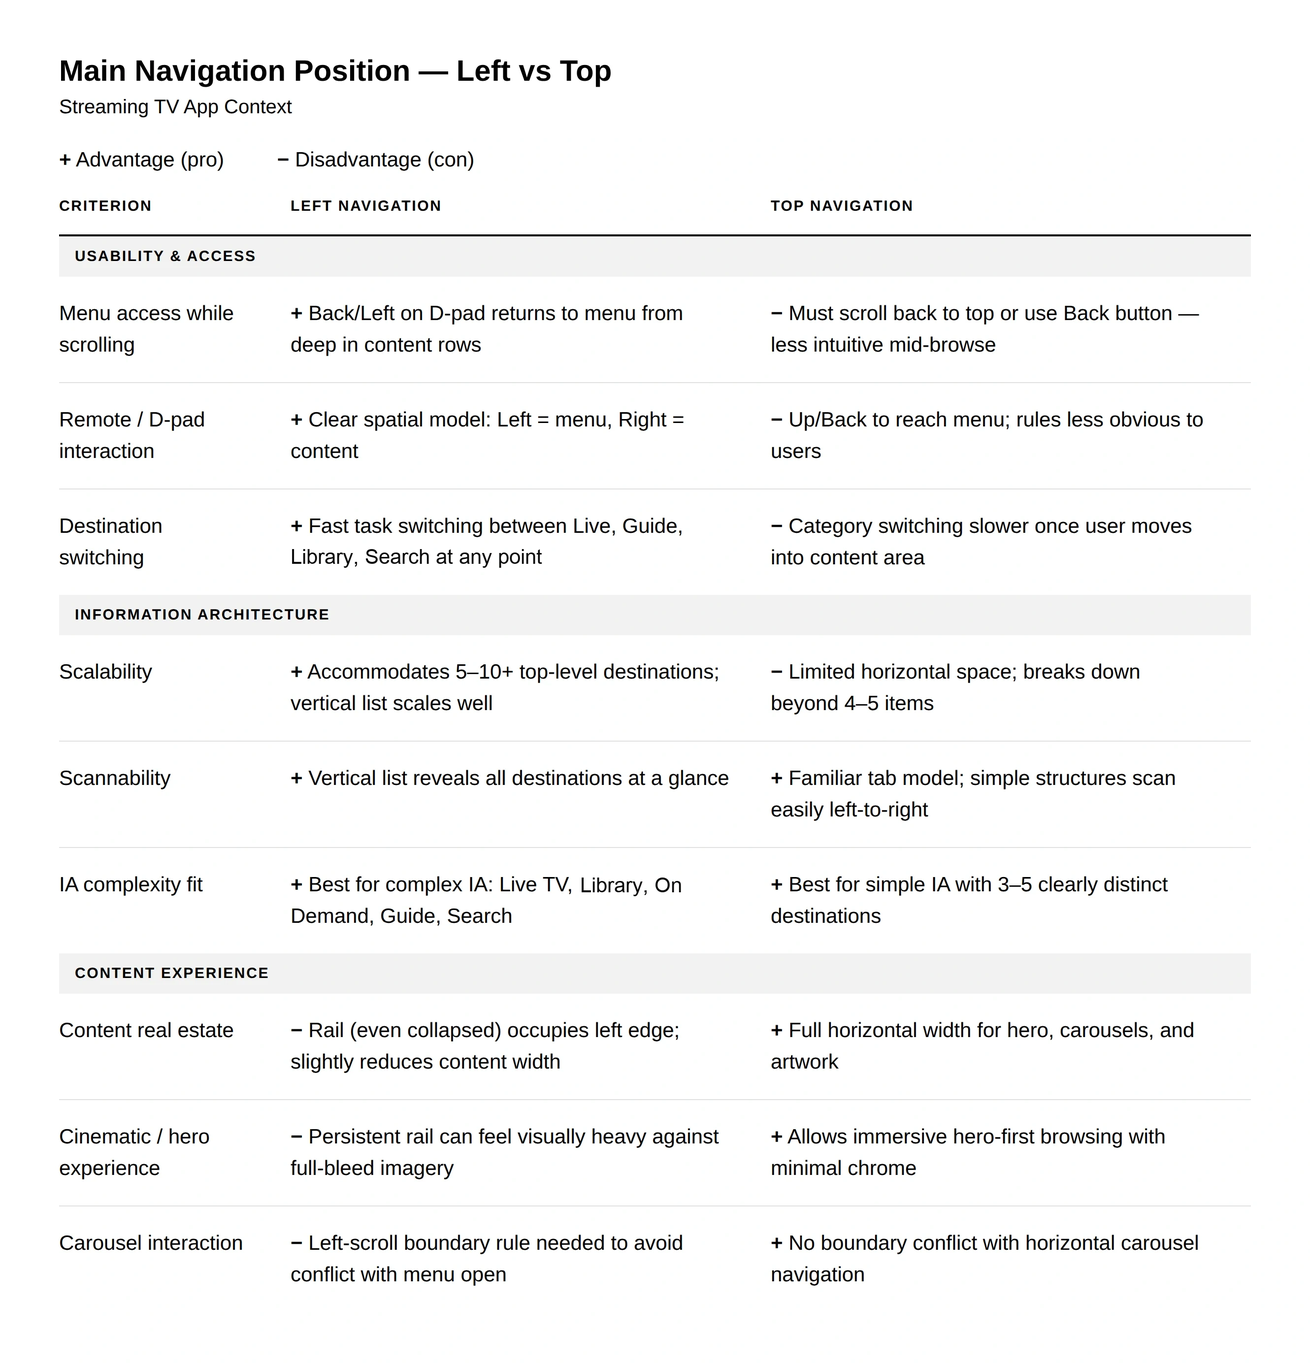
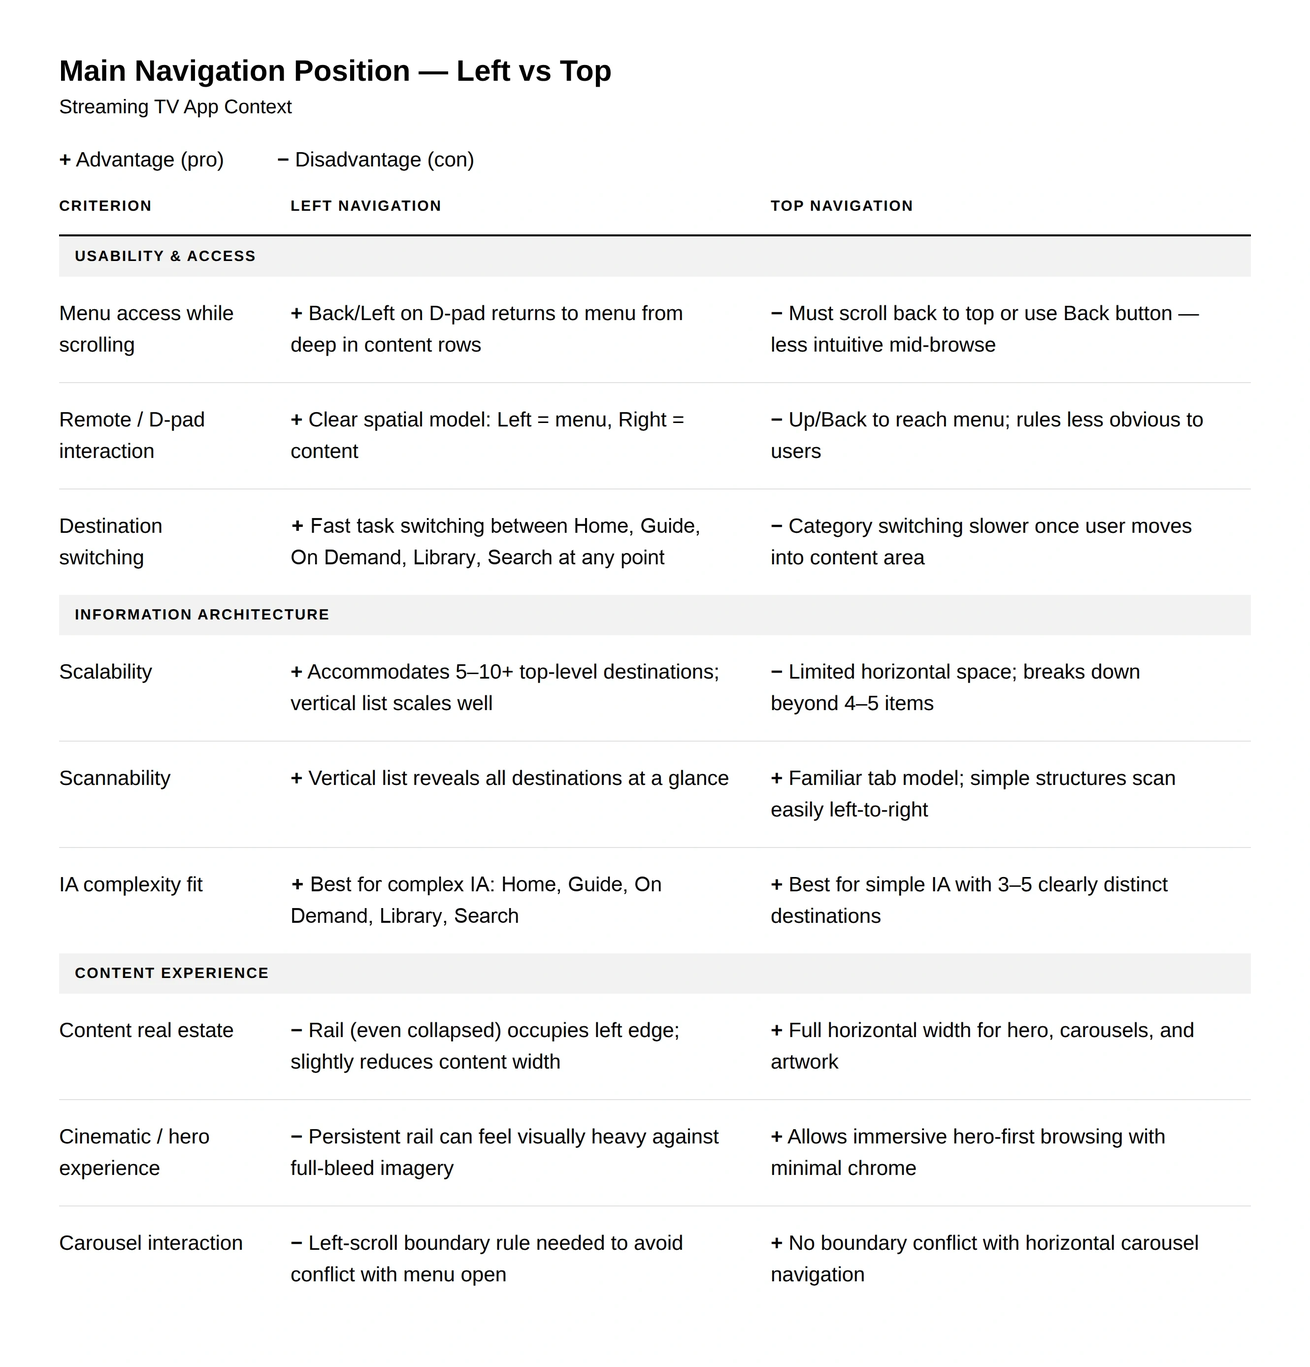
Project 1: 1-3 UI & Video Foundation and 1-4 Interaction Rules restructure, dark comparison tables

Changed region(s): [[0.2184, 0.3718, 0.5305, 0.4337], [0.2184, 0.6196, 0.4992, 0.6816]]

diff --git a/projects/overhaul/index.html b/projects/overhaul/index.html
@@ -270,24 +270,19 @@ Engagement</div><div class="a" data-id="0:142" style="left:865.00px;top:401.96px
 <h2 data-y="28423">Navigation and browsing became two distinct modes.</h2>
 <div class="bd" data-y="28527"><p>The collapsed rail kept browsing focused. When expanded, it created a clear mode for switching destinations without competing with horizontal content.</p></div>
 <div class="vis" data-w="1340" data-h="594" data-y="28707"><div class="vin" style="width:1340px;height:594px"><div class="a" data-id="0:296" style="left:0.00px;top:0.00px;width:1339px;height:594px;"><div class="a" data-id="0:297" style="left:0px;top:0px;width:1339px;height:594px;background:#e1e1e6;border-radius:10.8px;"></div><div class="a" data-id="0:298" style="left:143px;top:476px;width:427px;height:44px;opacity:0.7;white-space:pre;text-align:center;font:600 24px/40px 'Overused Grotesk';color:#000000;">Collapsed: Content-first browsing</div><div class="a" data-id="0:299" style="left:777px;top:476px;width:412px;height:44px;opacity:0.7;white-space:pre;text-align:center;font:600 24px/40px 'Overused Grotesk';color:#000000;">Expanded: Destination switching</div><div class="a" data-id="0:300" style="left:713px;top:122px;width:540px;height:307.8px;box-shadow:14px 14px 14px 0px rgba(0,0,0,0.3);"><div class="a" data-id="0:301" style="left:0px;top:0px;width:540px;height:307.8px;opacity:0.8;"><div class="a" data-id="0:302" style="left:0px;top:0px;width:540px;height:307.8px;background:#101411;box-shadow:inset 0 0 0 1.08px #31372e;border-radius:0px 10.8px 10.8px 0px;"></div><div class="a" data-id="0:303" style="left:66.96px;top:34.56px;width:442.8px;height:179.28px;background:#1f211d;box-shadow:inset 0 0 0 2.16px #85897d;border-radius:10.8px;"></div><div class="a" data-id="0:304" style="left:66.96px;top:258.12px;width:105.84px;height:49.68px;background:#1f211d;border-radius:10.8px 10.8px 0px 0px;"></div><div class="a" data-id="0:305" style="left:179.28px;top:258.12px;width:105.84px;height:49.68px;background:#1f211d;border-radius:10.8px 10.8px 0px 0px;"></div><div class="a" data-id="0:306" style="left:291.6px;top:258.12px;width:105.84px;height:49.68px;background:#1f211d;border-radius:10.8px 10.8px 0px 0px;"></div><div class="a" data-id="0:307" style="left:402.84px;top:258.12px;width:105.84px;height:49.68px;background:#1f211d;border-radius:10.8px 10.8px 0px 0px;"></div><div class="a" data-id="0:308" style="left:515.16px;top:258.12px;width:24.84px;height:49.68px;background:#1f211d;border-radius:10.8px 0px 10.8px 0px;"></div><div class="a" data-id="0:309" style="left:86.4px;top:102.6px;width:64.8px;height:6.48px;background:#30342c;border-radius:10.8px;"></div><div class="a" data-id="0:310" style="left:66.96px;top:231.12px;width:64.8px;height:10.8px;background:#30342c;border-radius:10.8px;"></div><div class="a" data-id="0:311" style="left:86.4px;top:146.88px;width:171.72px;height:6.48px;background:#30342c;border-radius:10.8px;"></div><div class="a" data-id="0:312" style="left:86.4px;top:157.68px;width:142.56px;height:6.48px;background:#30342c;border-radius:10.8px;"></div><div class="a" data-id="0:313" style="left:86.4px;top:118.8px;width:120.96px;height:15.12px;background:#43493e;border-radius:6.48px;"></div><div class="a" data-id="0:314" style="left:86.4px;top:177.12px;width:86.4px;height:21.6px;background:#7d7d7d;border-radius:10.8px;"></div></div><div class="a" data-id="0:315" style="left:0px;top:0px;width:85.5px;height:307.8px;overflow:hidden;box-shadow:4px 4px 9px 0px rgba(0,0,0,0.25);"><img src="a/0_315.webp" alt="" style="width:100%;height:100%;object-fit:fill"></div></div><div class="a" data-id="0:316" style="left:86px;top:125px;width:540px;height:307.8px;box-shadow:8px 14px 14px 0px rgba(0,0,0,0.3);"><div class="a" data-id="0:317" style="left:0px;top:0px;width:540px;height:307.8px;opacity:0.8;"><div class="a" data-id="0:318" style="left:0px;top:0px;width:540px;height:307.8px;background:#101411;box-shadow:inset 0 0 0 1.08px #31372e;border-radius:10.8px;"></div><div class="a" data-id="0:319" style="left:66.96px;top:34.56px;width:442.8px;height:179.28px;background:#1f211d;box-shadow:inset 0 0 0 2.16px #85897d;border-radius:10.8px;"></div><div class="a" data-id="0:320" style="left:66.96px;top:258.12px;width:105.84px;height:49.68px;background:#1f211d;border-radius:10.8px 10.8px 0px 0px;"></div><div class="a" data-id="0:321" style="left:179.28px;top:258.12px;width:105.84px;height:49.68px;background:#1f211d;border-radius:10.8px 10.8px 0px 0px;"></div><div class="a" data-id="0:322" style="left:291.6px;top:258.12px;width:105.84px;height:49.68px;background:#1f211d;border-radius:10.8px 10.8px 0px 0px;"></div><div class="a" data-id="0:323" style="left:402.84px;top:258.12px;width:105.84px;height:49.68px;background:#1f211d;border-radius:10.8px 10.8px 0px 0px;"></div><div class="a" data-id="0:324" style="left:515.16px;top:258.12px;width:24.84px;height:49.68px;background:#1f211d;border-radius:10.8px 0px 10.8px 0px;"></div><div class="a" data-id="0:325" style="left:86.4px;top:102.6px;width:64.8px;height:6.48px;background:#30342c;border-radius:10.8px;"></div><div class="a" data-id="0:326" style="left:66.96px;top:231.12px;width:64.8px;height:10.8px;background:#30342c;border-radius:10.8px;"></div><div class="a" data-id="0:327" style="left:86.4px;top:146.88px;width:171.72px;height:6.48px;background:#30342c;border-radius:10.8px;"></div><div class="a" data-id="0:328" style="left:86.4px;top:157.68px;width:142.56px;height:6.48px;background:#30342c;border-radius:10.8px;"></div><div class="a" data-id="0:329" style="left:86.4px;top:118.8px;width:120.96px;height:15.12px;background:#43493e;border-radius:6.48px;"></div><div class="a" data-id="0:330" style="left:86.4px;top:177.12px;width:86.4px;height:21.6px;background:#7d7d7d;border-radius:10.8px;"></div></div><div class="a" data-id="0:331" style="left:0px;top:0px;width:28.5px;height:307.8px;overflow:hidden;box-shadow:4px 4px 9px 0px rgba(0,0,0,0.25);"><img src="a/0_331.webp" alt="" style="width:100%;height:100%;object-fit:fill"></div></div></div></div></div>
-<details class="ev"><summary><span class="evh"><span>Compare left and top navigation</span><svg width="14" height="14" viewBox="0 0 14 14" fill="none" aria-hidden="true"><path d="M2 5l5 5 5-5" stroke="currentColor" stroke-width="1.5" stroke-linecap="round" stroke-linejoin="round"/></svg></span></summary><div class="evbd2"><div class="vis" data-w="1340" data-h="1400" data-y="25524"><div class="vin" style="width:1340px;height:1400px"><div class="a" data-id="0:278" style="left:0.00px;top:0.00px;width:1340px;height:1400px;overflow:hidden;border-radius:10px;"><img src="a/0_278_v2.webp" alt="" style="width:100%;height:100%;object-fit:fill"></div></div></div></div><div class="bd evbd"><p>Six of eight paid streaming services reviewed used left navigation.</p></div></details>
+<details class="ev"><summary><span class="evh"><span>Compare left and top navigation</span><svg width="14" height="14" viewBox="0 0 14 14" fill="none" aria-hidden="true"><path d="M2 5l5 5 5-5" stroke="currentColor" stroke-width="1.5" stroke-linecap="round" stroke-linejoin="round"/></svg></span></summary><div class="evbd2"><div class="vis" data-w="1340" data-h="1379" data-y="25524"><div class="vin" style="width:1340px;height:1379px"><div class="a" data-id="0:278" style="left:0.00px;top:0.00px;width:1340px;height:1379px;overflow:hidden;border-radius:10px;"><img src="a/0_278_dark.webp" alt="" style="width:100%;height:100%;object-fit:fill"></div></div></div></div><div class="bd evbd"><p>Six of eight paid streaming services reviewed used left navigation.</p></div></details>
 <hr data-y="30079">
 <div class="lbl" id="s1-3" data-y="30349">1-3 UI &amp; Video Foundation</div>
-<h2 data-y="30454">The redesign needed a base model for browsing and playback.</h2>
-<div class="bd" data-y="30558"><p>With the IA and navigation defined, I compared two structural models for how browsing and playback should coexist. The decision had to balance usability, cross-platform feasibility, ad viewability, and future viewing continuity.</p></div>
-<div class="vis" data-w="1340" data-h="594" data-y="30784"><div class="vin" style="width:1340px;height:594px"><div class="a" data-id="0:338" style="left:0.00px;top:0.00px;width:1339px;height:594px;"><div class="a" data-id="0:339" style="left:0px;top:0px;width:1339px;height:594px;background:#e1e1e6;border-radius:10.8px;"></div><div class="a" data-id="0:340" style="left:740.68px;top:108px;width:486px;height:297px;"><div class="a" data-id="0:341" style="left:0px;top:0px;width:432px;height:243px;"><div class="a" data-id="0:342" style="left:0px;top:0px;width:432px;height:243px;background:#faf9fd;box-shadow:inset 0 0 0 2.16px #979797;border-radius:4.32px;"></div><div class="a" data-id="0:343" style="left:21.6px;top:133.92px;width:118.8px;height:66.96px;background:#dbe2e8;border-radius:4.32px;"></div><div class="a" data-id="0:344" style="left:156.6px;top:133.92px;width:118.8px;height:66.96px;background:#dbe2e8;border-radius:4.32px;"></div><div class="a" data-id="0:345" style="left:291.6px;top:133.92px;width:118.8px;height:66.96px;background:#dbe2e8;border-radius:4.32px;"></div><div class="a" data-id="0:346" style="left:21.6px;top:210.63px;width:118.8px;height:30.24px;background:#dbe2e8;border-radius:4.32px 4.32px 0px 0px;"></div><div class="a" data-id="0:347" style="left:156.6px;top:210.6px;width:118.8px;height:30.24px;background:#dbe2e8;border-radius:4.32px 4.32px 0px 0px;"></div><div class="a" data-id="0:348" style="left:291.6px;top:210.6px;width:118.8px;height:30.24px;background:#dbe2e8;border-radius:4.32px 4.32px 0px 0px;"></div><div class="a" data-id="0:349" style="left:21.6px;top:2.16px;width:388.8px;height:119.88px;background:#dbe2e8;border-radius:0px 0px 4.32px 4.32px;"></div></div><div class="a" data-id="0:350" style="left:54px;top:54px;width:432px;height:243px;opacity:0.8;box-shadow:4px 4px 9px 0px rgba(0,0,0,0.25);"><div class="a" data-id="0:351" style="left:0px;top:0px;width:432px;height:243px;background:#255ea7;box-shadow:inset 0 0 0 2.16px #a8c8ff,4px 4px 9px 0px rgba(0,0,0,0.25);border-radius:4.32px;"></div><div class="a" data-id="0:352" style="left:151.2px;top:57.24px;width:129.6px;height:129.6px;opacity:0.25;overflow:hidden;"><img src="a/0_352.webp" alt="" style="width:100%;height:100%;object-fit:fill"></div></div></div><div class="a" data-id="0:353" style="left:881.22px;top:455.76px;width:206px;height:87px;opacity:0.7;white-space:pre;text-align:center;font:700 24px/40px 'Overused Grotesk';color:#000000;"><span style="font:700 24px/40px 'Overused Grotesk';">Video overlay UI
-</span><span style="font:400 24px/40px 'Overused Grotesk';">(Lean-forward)</span></div><div class="a" data-id="0:354" style="left:101.52px;top:109.08px;width:486px;height:297px;"><div class="a" data-id="0:355" style="left:0px;top:0px;width:432px;height:243px;opacity:0.85;box-shadow:4px 4px 9px 0px rgba(0,0,0,0.25);"><div class="a" data-id="0:356" style="left:0px;top:0px;width:432px;height:243px;background:#255ea7;box-shadow:inset 0 0 0 2.16px #a8c8ff;border-radius:4.32px;"></div><div class="a" data-id="0:357" style="left:151.2px;top:57.24px;width:129.6px;height:129.6px;opacity:0.25;overflow:hidden;"><img src="a/0_357.webp" alt="" style="width:100%;height:100%;object-fit:fill"></div></div><div class="a" data-id="0:358" style="left:54px;top:54px;width:432px;height:243px;opacity:0.9;box-shadow:4px 4px 9px 0px rgba(0,0,0,0.25);"><div class="a" data-id="0:359" style="left:0px;top:0px;width:432px;height:243px;background:#faf9fd;box-shadow:inset 0 0 0 2.16px #979797;border-radius:4.32px;"></div><div class="a" data-id="0:360" style="left:21.6px;top:133.92px;width:118.8px;height:66.96px;background:#dbe2e8;border-radius:4.32px;"></div><div class="a" data-id="0:361" style="left:156.6px;top:133.92px;width:118.8px;height:66.96px;background:#dbe2e8;border-radius:4.32px;"></div><div class="a" data-id="0:362" style="left:291.6px;top:133.92px;width:118.8px;height:66.96px;background:#dbe2e8;border-radius:4.32px;"></div><div class="a" data-id="0:363" style="left:21.6px;top:210.63px;width:118.8px;height:30.24px;background:#dbe2e8;border-radius:4.32px 4.32px 0px 0px;"></div><div class="a" data-id="0:364" style="left:156.6px;top:210.6px;width:118.8px;height:30.24px;background:#dbe2e8;border-radius:4.32px 4.32px 0px 0px;"></div><div class="a" data-id="0:365" style="left:291.6px;top:210.6px;width:118.8px;height:30.24px;background:#dbe2e8;border-radius:4.32px 4.32px 0px 0px;"></div><div class="a" data-id="0:366" style="left:21.6px;top:2.16px;width:388.8px;height:119.88px;background:#dbe2e8;border-radius:0px 0px 4.32px 4.32px;"></div></div></div><div class="a" data-id="0:367" style="left:244.56px;top:456.84px;width:201px;height:87px;opacity:0.7;white-space:pre;text-align:center;font:700 24px/40px 'Overused Grotesk';color:#000000;"><span style="font:700 24px/40px 'Overused Grotesk';">Video behind UI
-</span><span style="font:400 24px/40px 'Overused Grotesk';">(Lean-back)</span></div></div></div></div>
-<h2 data-y="31649">I chose the model that balanced usability, feasibility, and ad viewability.</h2>
-<div class="bd" data-y="31775"><p>After comparing both models, Video Behind UI offered a more continuous live TV experience, while Video Overlay UI provided clearer separation between browsing and playback, lower delivery risk, and stronger protection for ad viewability.</p></div>
-<div class="vis" data-w="1340" data-h="1074" data-y="32001"><div class="vin" style="width:1340px;height:1074px"><div class="a" data-id="0:370" style="left:0.00px;top:0.00px;width:1340px;height:1074px;overflow:hidden;border-radius:10px;"><img src="a/0_370.webp" alt="" style="width:100%;height:100%;object-fit:fill"></div></div></div>
-<h2 data-y="33341">Trade-off</h2>
-<div class="bd" data-y="33445"><p>We traded the more continuous, always-on live TV feel of Video Behind UI, which kept playback visible during browsing, for the clearer separation of Video Overlay UI. The selected model fit Sling’s existing architecture, protected ad viewability, and created a more consistent foundation across platforms while still supporting future continuity patterns such as picture-in-picture and muted preview.</p></div>
+<h2 data-y="30454">I chose Video Overlay UI to separate browsing from playback.</h2>
+<div class="bd" data-y="30558"><p>Of the two models, Video Behind UI offered greater live TV continuity. I chose Video Overlay UI for clearer browsing and playback states, lower implementation risk, and better protection for ad viewability—accepting less continuity during browsing.</p></div>
+<div class="vis" data-w="1340" data-h="594" data-y="30784"><div class="vin" style="width:1340px;height:594px"><div class="a" data-id="0:338" style="left:0.00px;top:0.00px;width:1339px;height:594px;"><div class="a" data-id="0:339" style="left:0px;top:0px;width:1339px;height:594px;background:#e1e1e6;border-radius:10.8px;"></div><div class="a" data-id="0:340" style="left:740.68px;top:108px;width:486px;height:297px;"><div class="a" data-id="0:341" style="left:0px;top:0px;width:432px;height:243px;"><div class="a" data-id="0:342" style="left:0px;top:0px;width:432px;height:243px;background:#faf9fd;box-shadow:inset 0 0 0 2.16px #979797;border-radius:4.32px;"></div><div class="a" data-id="0:343" style="left:21.6px;top:133.92px;width:118.8px;height:66.96px;background:#dbe2e8;border-radius:4.32px;"></div><div class="a" data-id="0:344" style="left:156.6px;top:133.92px;width:118.8px;height:66.96px;background:#dbe2e8;border-radius:4.32px;"></div><div class="a" data-id="0:345" style="left:291.6px;top:133.92px;width:118.8px;height:66.96px;background:#dbe2e8;border-radius:4.32px;"></div><div class="a" data-id="0:346" style="left:21.6px;top:210.63px;width:118.8px;height:30.24px;background:#dbe2e8;border-radius:4.32px 4.32px 0px 0px;"></div><div class="a" data-id="0:347" style="left:156.6px;top:210.6px;width:118.8px;height:30.24px;background:#dbe2e8;border-radius:4.32px 4.32px 0px 0px;"></div><div class="a" data-id="0:348" style="left:291.6px;top:210.6px;width:118.8px;height:30.24px;background:#dbe2e8;border-radius:4.32px 4.32px 0px 0px;"></div><div class="a" data-id="0:349" style="left:21.6px;top:2.16px;width:388.8px;height:119.88px;background:#dbe2e8;border-radius:0px 0px 4.32px 4.32px;"></div></div><div class="a" data-id="0:350" style="left:54px;top:54px;width:432px;height:243px;opacity:0.8;box-shadow:4px 4px 9px 0px rgba(0,0,0,0.25);"><div class="a" data-id="0:351" style="left:0px;top:0px;width:432px;height:243px;background:#255ea7;box-shadow:inset 0 0 0 2.16px #a8c8ff,4px 4px 9px 0px rgba(0,0,0,0.25);border-radius:4.32px;"></div><div class="a" data-id="0:352" style="left:151.2px;top:57.24px;width:129.6px;height:129.6px;opacity:0.25;overflow:hidden;"><img src="a/0_352.webp" alt="" style="width:100%;height:100%;object-fit:fill"></div></div></div><div class="a" data-id="0:353" style="left:753.7px;top:455.76px;width:460px;height:87px;opacity:0.7;white-space:pre;text-align:center;font:700 24px/40px 'Overused Grotesk';color:#000000;"><span style="font:700 24px/40px 'Overused Grotesk';">Video overlay UI
+</span><span style="font:400 24px/40px 'Overused Grotesk';">Playback over the browsing interface</span></div><div class="a" data-id="0:354" style="left:101.52px;top:109.08px;width:486px;height:297px;"><div class="a" data-id="0:355" style="left:0px;top:0px;width:432px;height:243px;opacity:0.85;box-shadow:4px 4px 9px 0px rgba(0,0,0,0.25);"><div class="a" data-id="0:356" style="left:0px;top:0px;width:432px;height:243px;background:#255ea7;box-shadow:inset 0 0 0 2.16px #a8c8ff;border-radius:4.32px;"></div><div class="a" data-id="0:357" style="left:151.2px;top:57.24px;width:129.6px;height:129.6px;opacity:0.25;overflow:hidden;"><img src="a/0_357.webp" alt="" style="width:100%;height:100%;object-fit:fill"></div></div><div class="a" data-id="0:358" style="left:54px;top:54px;width:432px;height:243px;opacity:0.9;box-shadow:4px 4px 9px 0px rgba(0,0,0,0.25);"><div class="a" data-id="0:359" style="left:0px;top:0px;width:432px;height:243px;background:#faf9fd;box-shadow:inset 0 0 0 2.16px #979797;border-radius:4.32px;"></div><div class="a" data-id="0:360" style="left:21.6px;top:133.92px;width:118.8px;height:66.96px;background:#dbe2e8;border-radius:4.32px;"></div><div class="a" data-id="0:361" style="left:156.6px;top:133.92px;width:118.8px;height:66.96px;background:#dbe2e8;border-radius:4.32px;"></div><div class="a" data-id="0:362" style="left:291.6px;top:133.92px;width:118.8px;height:66.96px;background:#dbe2e8;border-radius:4.32px;"></div><div class="a" data-id="0:363" style="left:21.6px;top:210.63px;width:118.8px;height:30.24px;background:#dbe2e8;border-radius:4.32px 4.32px 0px 0px;"></div><div class="a" data-id="0:364" style="left:156.6px;top:210.6px;width:118.8px;height:30.24px;background:#dbe2e8;border-radius:4.32px 4.32px 0px 0px;"></div><div class="a" data-id="0:365" style="left:291.6px;top:210.6px;width:118.8px;height:30.24px;background:#dbe2e8;border-radius:4.32px 4.32px 0px 0px;"></div><div class="a" data-id="0:366" style="left:21.6px;top:2.16px;width:388.8px;height:119.88px;background:#dbe2e8;border-radius:0px 0px 4.32px 4.32px;"></div></div></div><div class="a" data-id="0:367" style="left:185px;top:456.84px;width:320px;height:87px;opacity:0.7;white-space:pre;text-align:center;font:700 24px/40px 'Overused Grotesk';color:#000000;"><span style="font:700 24px/40px 'Overused Grotesk';">Video behind UI
+</span><span style="font:400 24px/40px 'Overused Grotesk';">Browsing over live video</span></div></div></div></div>
+<details class="ev"><summary><span class="evh"><span>Compare the two video models</span><svg width="14" height="14" viewBox="0 0 14 14" fill="none" aria-hidden="true"><path d="M2 5l5 5 5-5" stroke="currentColor" stroke-width="1.5" stroke-linecap="round" stroke-linejoin="round"/></svg></span></summary><div class="evbd2"><div class="vis" data-w="1340" data-h="1049" data-y="32001"><div class="vin" style="width:1340px;height:1049px"><div class="a" data-id="0:370" style="left:0.00px;top:0.00px;width:1340px;height:1049px;overflow:hidden;border-radius:10px;"><img src="a/0_370_dark.webp" alt="" style="width:100%;height:100%;object-fit:fill"></div></div></div></div></details>
 <hr data-y="33896">
 <div class="lbl" id="s1-4" data-y="34168">1-4 Interaction Rules</div>
 <h2 data-y="34273">I turned familiar TV interaction patterns into shared rules.</h2>
-<div class="bd" data-y="34378"><p>With the IA, navigation, and video foundation defined, I reviewed platform guidance and common streaming TV conventions, then established consistent behavior for Sling’s remote-based experience.</p></div>
-<div class="bd" data-y="34497"><p>The rules defined behavior across four interaction areas.</p><ul><li>Focus movement: Predictable D-pad movement across content and controls.</li><li>Navigation entry and exit: Consistent movement between the side menu and browsing surfaces.</li><li>Back behavior: Clear expectations for returning to the previous state.</li><li>State transitions: Consistent handoffs between browsing, detail, playback, and controls.</li></ul></div>
+<div class="bd" data-y="34378"><p>I reviewed platform guidance and streaming TV conventions, then defined shared rules for focus movement, navigation entry and exit, Back behavior, and transitions across browsing, detail, and playback.</p></div>
 <div class="vis" data-w="1340" data-h="908" data-y="34893"><div class="vin" style="width:1340px;height:908px"><div class="a" data-id="0:395" style="left:0.00px;top:0.00px;width:1310px;height:908px;"><div class="a" data-id="0:396" style="left:0px;top:0px;width:642.58px;height:908px;background:#e1e1e6;border-radius:10.8px;"></div><div class="a" data-id="0:397" style="left:667.42px;top:0px;width:642.58px;height:908px;background:#e1e1e6;border-radius:10.8px;"></div><div class="a" data-id="0:398" style="left:132.84px;top:52.92px;width:377.99px;height:782.83px;overflow:hidden;box-shadow:8px 14px 14px 0px rgba(0,0,0,0.3);"><img src="a/0_398.webp" alt="" style="width:100%;height:100%;object-fit:fill"></div><div class="a" data-id="0:399" style="left:800.26px;top:281.87px;width:377.99px;height:212.5px;overflow:hidden;box-shadow:8px 14px 14px 0px rgba(0,0,0,0.3);"><img src="a/0_399.webp" alt="" style="width:100%;height:100%;object-fit:fill"></div><div class="a" data-id="0:400" style="left:800.26px;top:52.92px;width:377.99px;height:195.47px;overflow:hidden;box-shadow:8px 14px 14px 0px rgba(0,0,0,0.3);"><img src="a/0_400.webp" alt="" style="width:100%;height:100%;object-fit:fill"></div><div class="a" data-id="0:401" style="left:800.26px;top:527.86px;width:377.99px;height:307.79px;box-shadow:8px 14px 14px 0px rgba(0,0,0,0.3);"><div class="a" data-id="0:403" style="left:0px;top:0px;width:377.99px;height:307.79px;border-radius:10.8px;"></div><div class="a" style="left:0px;top:0px;width:377.99px;height:307.79px;overflow:hidden;border-radius:10.8px;"><div class="a" data-id="0:404" style="left:0px;top:-475.49px;width:377.99px;height:782.75px;overflow:hidden;"><img src="a/0_404.webp" alt="" style="width:100%;height:100%;object-fit:fill"></div></div></div></div></div></div>
 <hr data-y="36052">
 <div class="lbl" id="s1-5" data-y="36323">1-5 Shared Patterns</div>
